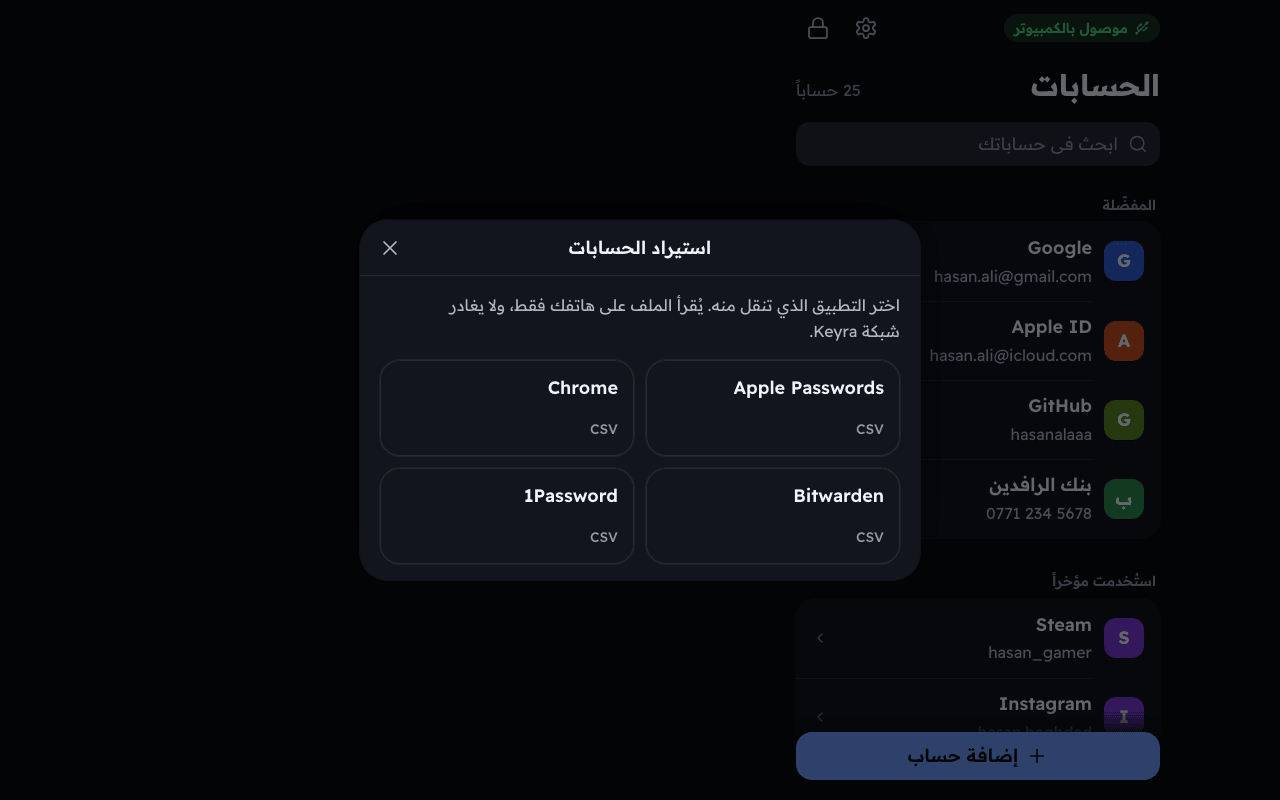
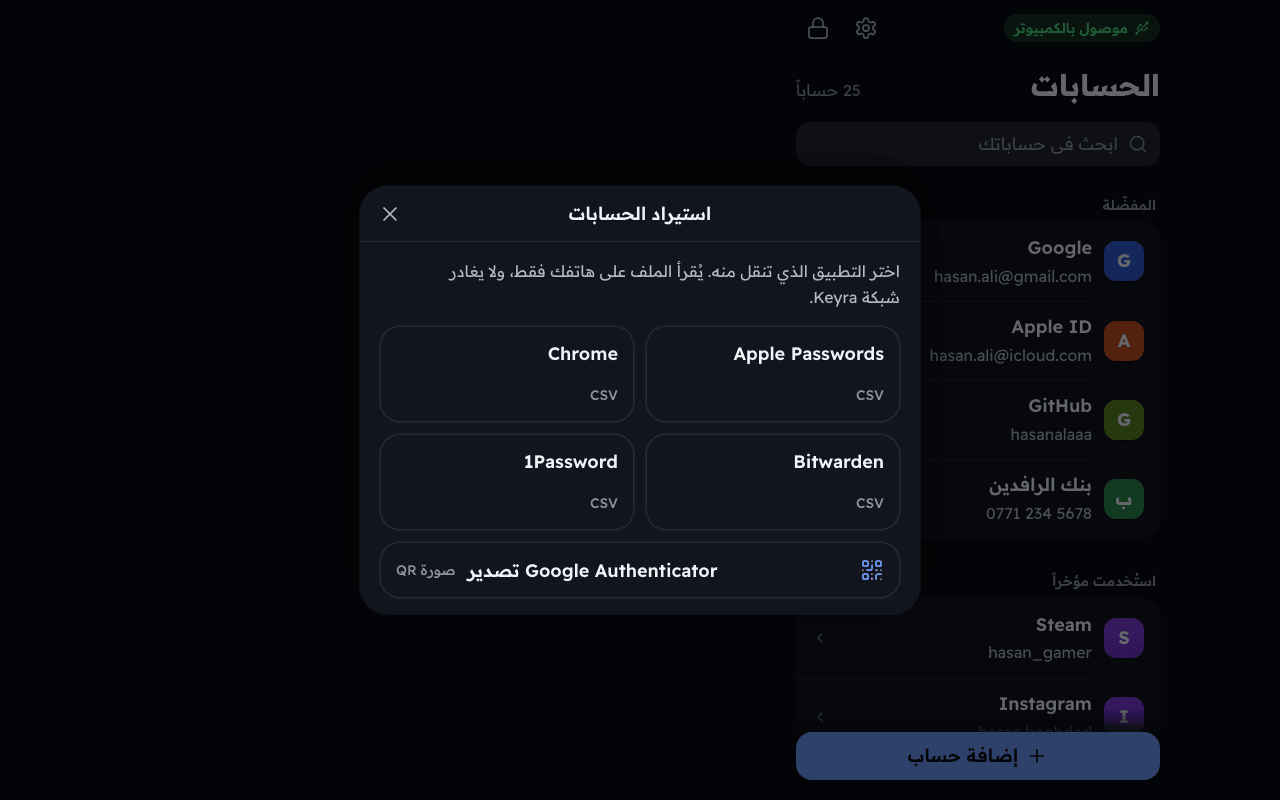
docs+e2e: QR import in README/CHANGELOG, e2e flows, screenshots

diff --git a/README.md b/README.md
@@ -63,10 +63,10 @@ A long press (1.5 seconds) cancels a pending action, or locks the vault if nothi
 | **Types like a keyboard** | USB HID keyboard (US layout). Handles Caps Lock and always releases keys, even on errors. |
 | **Phone-first web app** | Installable to the home screen. Search, favorites, recents, password generator and strength meter. |
 | **Arabic and English** | Full RTL support, auto-detected, switchable at any time. |
-| **2FA codes** | Built-in TOTP (SHA-1/256/512, 6 or 8 digits). Keyra can type the code too. |
+| **2FA codes** | Built-in TOTP (SHA-1/256/512, 6 or 8 digits, 30 or 60 seconds). Keyra can type the code too. Add the key by pasting a setup key or `otpauth://` link, or with **Scan QR from a photo**. |
 | **Encrypted vault** | PBKDF2-HMAC-SHA256 (about 1.2 s on the device) and per-entry AES-256-GCM. |
 | **Unlock rate limiting** | Failed attempts are counted before the key derivation runs; power-cycling does not reset the delay. |
-| **Import** | Move from Apple Passwords, Chrome, Bitwarden or 1Password CSV exports. |
+| **Import** | Move from Apple Passwords, Chrome, Bitwarden or 1Password CSV exports, or move 2FA keys from a Google Authenticator export QR. |
 | **Encrypted backup** | A passphrase-protected JSON file; restore by merging or replacing. |
 | **Physical confirmation** | Typing, setup, Wi-Fi changes and factory reset all need a button press. |
 | **Status LED** | Locked, ready, typing, success and error, readable at a glance. |
@@ -239,6 +239,9 @@ The action is armed for 60 seconds and runs once on the press. Click the right f
 
 **Why HTTP and not HTTPS?**
 A device on its own network cannot get a certificate that browsers trust without installing something on each phone, and a browser warning teaches people to ignore warnings. The link is protected by WPA2 and a private Wi-Fi password instead. This is a real limit: see [SECURITY.md](SECURITY.md).
+
+**Can I add a 2FA key from a QR code?**
+Yes. In the account form, tap **Scan QR from a photo**, then take a photo of the QR or choose a saved picture. The picture is decoded inside your phone's browser; it is never sent to Keyra or anywhere else. Keyra's page is plain HTTP, so browsers do not allow a live camera view there, hence the photo. Plain `otpauth://totp/…` QR codes fill the 2FA field (and the name and user name if they are empty). For Google Authenticator, use **Import**, then **Google Authenticator export**: it lists the accounts in the export QR (several QR codes for big exports, one scan each) and either adds them as new accounts or adds the key to existing accounts that match by name and user name. Keyra only makes time-based codes, so counter-based (HOTP) entries, MD5 and unusual digit counts or periods are rejected or skipped with a message. Delete any photo or screenshot of the QR afterwards: it holds your keys unencrypted.
 
 **Do I need an internet connection?**
 No. Keyra creates its own Wi-Fi network, and your phone does not need internet while connected to it (it may keep using mobile data for other apps).

diff --git a/CHANGELOG.md b/CHANGELOG.md
@@ -6,6 +6,22 @@ All notable changes to Keyra are documented here. The format follows
 
 ## [Unreleased]
 
+### Added
+
+- Web app: **Scan QR from a photo** next to the 2FA field. Reads a plain
+  `otpauth://totp/` QR in the browser (jsQR, Apache-2.0; photos are downscaled on
+  a scratch canvas, never uploaded) and fills the key, plus the name and user name
+  when empty.
+- Web app: **Google Authenticator export** card in Import. Decodes
+  `otpauth-migration://` QR codes (hand-written protobuf reader, several QR codes
+  per export), previews the accounts, and adds them as new accounts or adds the
+  key to existing accounts that match by name and user name.
+- Unsupported codes (HOTP, MD5, digits other than 6 or 8, periods other than 30
+  or 60 s) are rejected with a message, matching what the firmware can compute.
+  The 2FA field now applies the same rules to pasted `otpauth://` links.
+- The embedded web app grows from about 78 KB to about 129 KB gzipped (the QR
+  decoder is inlined in the single file).
+
 ## [0.1.0] - Unreleased
 
 First public release.
